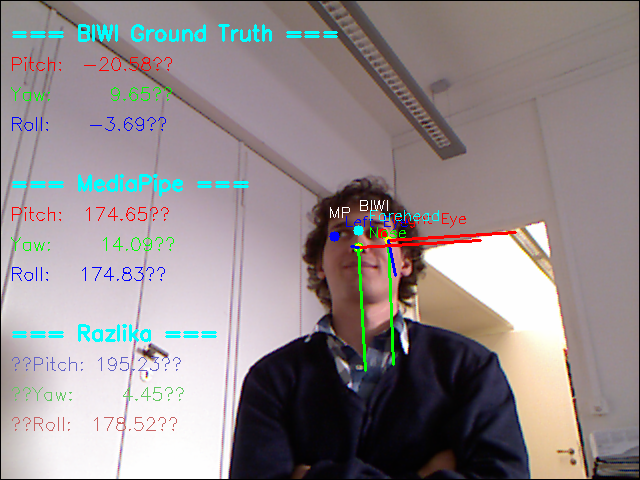
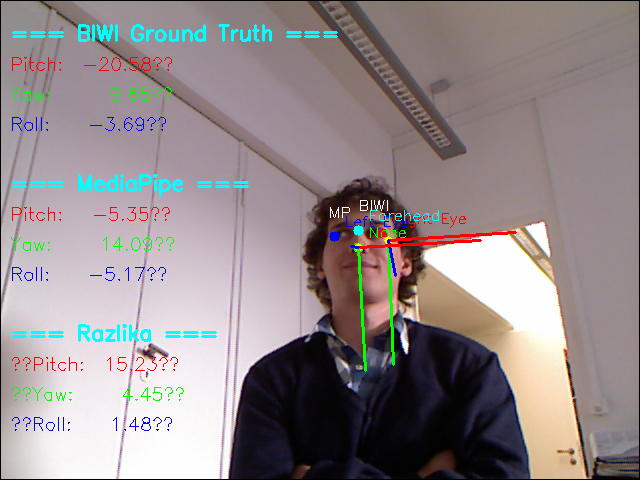
head_pose_estimation_03

diff --git a/student_assignment_03/src/head_pose_estimation_03.py b/student_assignment_03/src/head_pose_estimation_03.py
@@ -19,6 +19,19 @@ from pathlib import Path
 import pandas as pd
 import mediapipe as mp
 
+
+def _normalize_angle_deg(a: float) -> float:
+    """Normalize angle to (-180, 180] degrees."""
+    return ((a + 180.0) % 360.0) - 180.0
+
+
+def _closest_angle_to(angle: float, reference: float) -> float:
+    """Return the equivalent of `angle` (shifted by multiples of 360) closest to `reference`."""
+    a = _normalize_angle_deg(angle)
+    candidates = [a, a + 360.0, a - 360.0]
+    best = min(candidates, key=lambda x: abs(x - reference))
+    return best
+
 # Intrinzična matrica kamere za BIWI
 K = np.array([[575.816, 0.0, 320.0],
               [0.0, 575.816, 240.0],
@@ -442,6 +455,25 @@ def process_frames_comparison(frame_ids: list, data_root: Path):
 
             pitch_mp, yaw_mp, roll_mp, mp_pose = pitch_mp_res
             R_mp, origin_mp = mp_pose
+
+            # Adjust MediaPipe angles to be the equivalent closest to BIWI (circular difference)
+            def _angle_diff(a, b):
+                return ((a - b + 180.0) % 360.0) - 180.0
+
+            # If circular difference is large (>90°), flip by 180° to the closer equivalent
+            for name, a_mp, a_biwi in (('pitch', pitch_mp, pitch_biwi), ('yaw', yaw_mp, yaw_biwi), ('roll', roll_mp, roll_biwi)):
+                d = _angle_diff(a_mp, a_biwi)
+                if abs(d) > 90.0:
+                    # shift by -sign(d)*180 to reduce difference
+                    a_mp = a_mp - math.copysign(180.0, d)
+                a_mp = _normalize_angle_deg(a_biwi + _angle_diff(a_mp, a_biwi))
+                if name == 'pitch':
+                    pitch_mp = a_mp
+                elif name == 'yaw':
+                    yaw_mp = a_mp
+                else:
+                    roll_mp = a_mp
+
             # Izračun razlike
             pitch_diff = abs(pitch_biwi - pitch_mp)
             yaw_diff = abs(yaw_biwi - yaw_mp)
@@ -508,11 +540,11 @@ def process_frames_comparison(frame_ids: list, data_root: Path):
             cv2.putText(img_vis, "=== Razlika ===", (10, y_offset + 10*line_height),
                        cv2.FONT_HERSHEY_SIMPLEX, 0.7, (255, 255, 0), 2)
             cv2.putText(img_vis, f"ΔPitch: {pitch_diff:6.2f}°", (10, y_offset + 11*line_height),
-                       cv2.FONT_HERSHEY_SIMPLEX, 0.6, (200, 100, 100), 1)
+                       cv2.FONT_HERSHEY_SIMPLEX, 0.6, (0, 0, 255), 1)
             cv2.putText(img_vis, f"ΔYaw:   {yaw_diff:6.2f}°", (10, y_offset + 12*line_height),
-                       cv2.FONT_HERSHEY_SIMPLEX, 0.6, (100, 200, 100), 1)
+                       cv2.FONT_HERSHEY_SIMPLEX, 0.6, (0, 255, 0), 1)
             cv2.putText(img_vis, f"ΔRoll:  {roll_diff:6.2f}°", (10, y_offset + 13*line_height),
-                       cv2.FONT_HERSHEY_SIMPLEX, 0.6, (100, 100, 200), 1)
+                       cv2.FONT_HERSHEY_SIMPLEX, 0.6, (255, 0, 0), 1)
             
             # Spremi sliku
             output_dir = Path("outputs")
